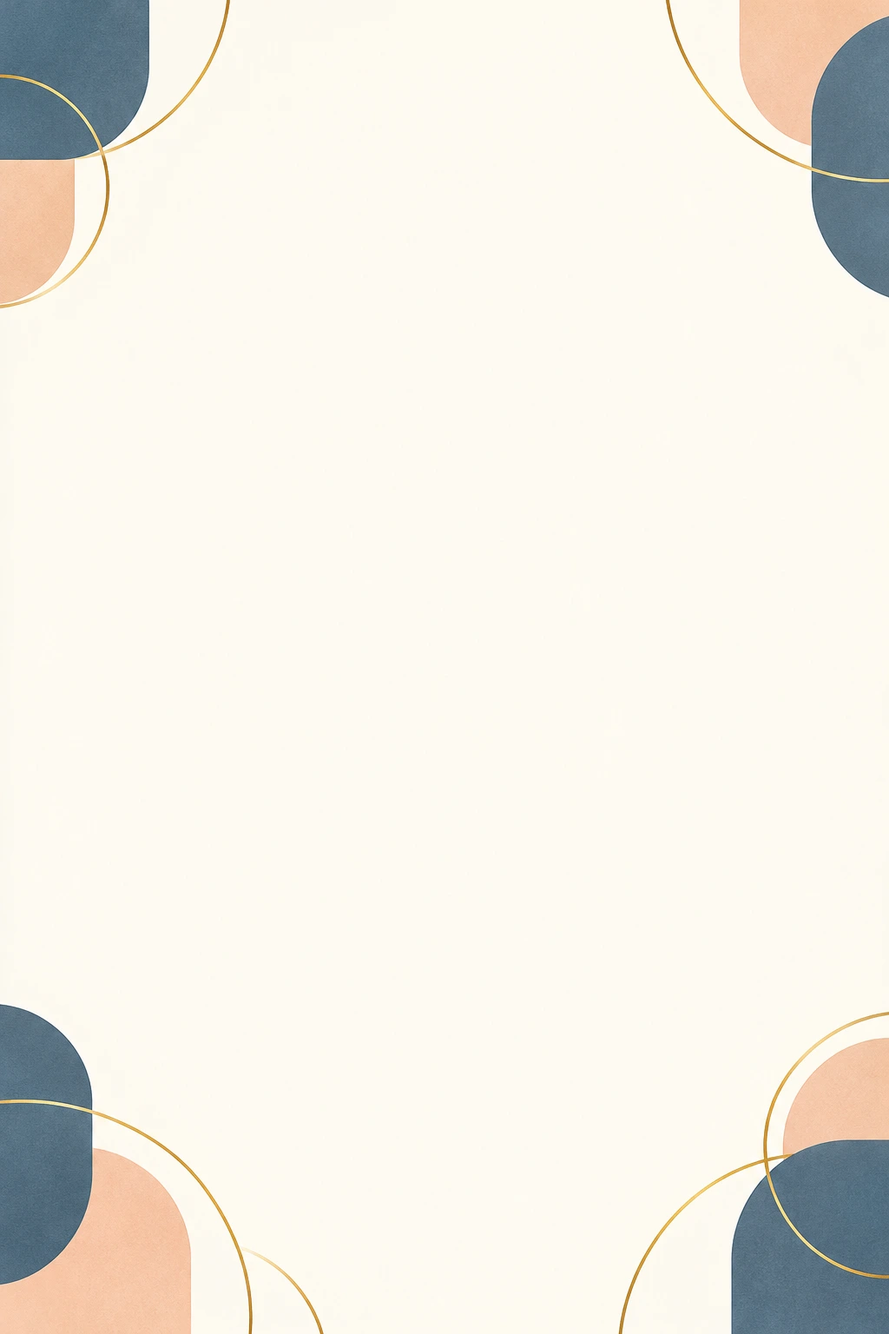
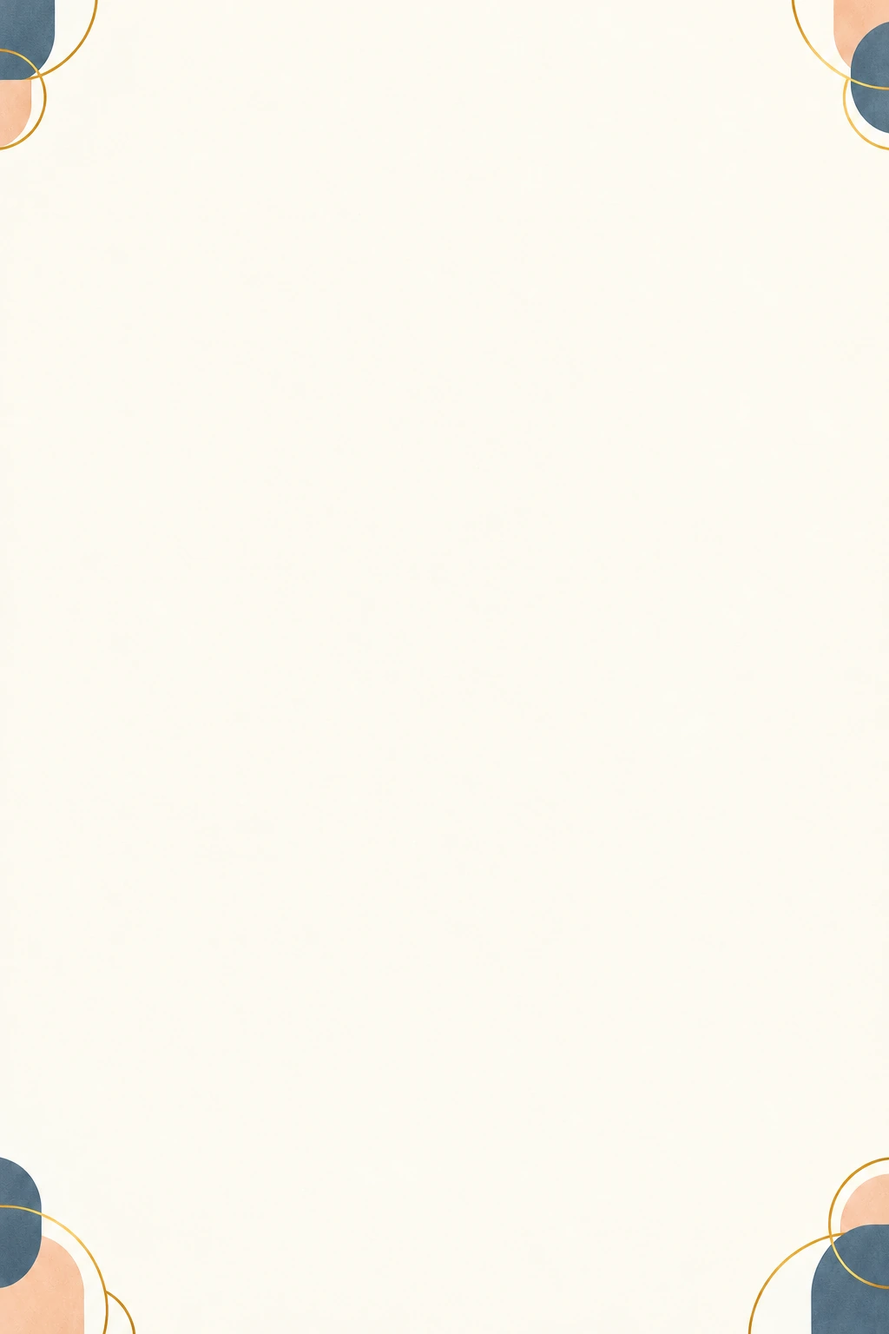
Recompose card artwork, center transparent branding and simplify admin overview

diff --git a/la-suite/admin.css b/la-suite/admin.css
@@ -1,4 +1,4 @@
-.admin-console{background:#f5f3ef;color:#302b25;font-family:Inter,Arial,sans-serif;min-height:100vh}.admin-console-header{background:#fff;border-bottom:1px solid #e5ded4;padding:18px max(20px,calc((100vw - 1160px)/2));display:flex;align-items:center;justify-content:space-between;gap:20px}.admin-console-brand{display:flex;align-items:center;gap:14px;color:inherit;text-decoration:none;font-weight:600}.admin-console-brand img{width:80px;height:44px;object-fit:contain}.admin-console-brand span{padding-left:14px;border-left:1px solid #ddd6ca;font-size:.85rem}.admin-console-main{max-width:1160px;margin:auto;padding:32px 24px 60px}.admin-console-heading,.admin-section-heading{display:flex;align-items:center;justify-content:space-between;gap:16px;margin-bottom:22px}.admin-console h1{font:600 clamp(1.8rem,4vw,2.5rem) Inter,Arial,sans-serif;margin:6px 0}.admin-console h2{font:600 1.25rem Inter,Arial,sans-serif}.admin-console-heading>span{font-size:.85rem;color:#70685d;overflow-wrap:anywhere}.admin-console .admin-stats{display:grid;grid-template-columns:repeat(4,minmax(0,1fr));gap:16px;margin:0 0 24px}.admin-console .admin-stat{background:white;border:1px solid #e5ded4;border-radius:14px;padding:20px}.admin-console .admin-stat strong{display:block;font-size:1.6rem}.admin-console .admin-stat span{font-size:.8rem;color:#70685d}.admin-console-tabs{display:flex;gap:8px;padding:6px;background:#eae6de;border-radius:12px;overflow-x:auto;margin-bottom:24px}.admin-console-tabs button{flex:1;border:0;background:transparent;color:#625b50;padding:13px 18px;border-radius:8px;font:500 .9rem Inter,Arial,sans-serif;white-space:nowrap;cursor:pointer}.admin-console-tabs button[aria-selected=true]{background:white;color:#8b2730;box-shadow:0 1px 4px #00000010}.admin-console-panel{background:white;border:1px solid #e5ded4;border-radius:16px;padding:24px}.admin-console .admin-list{display:grid;gap:12px}.admin-console .admin-card{margin:0;background:#fff;border:1px solid #e5ded4;border-radius:12px;padding:20px}.admin-search{display:grid;gap:8px;max-width:420px;font-size:.85rem;margin:18px 0 22px}.admin-console input,.admin-console select{width:100%;min-width:0;border:1px solid #d9d2c8;border-radius:8px;padding:11px;font:inherit;background:white}.admin-console .admin-dialog{width:min(760px,calc(100% - 24px));max-height:calc(100dvh - 24px);overflow:auto;box-sizing:border-box;padding:28px}.admin-console fieldset{border:1px solid #e5ded4;border-radius:12px;padding:18px;margin:18px 0;min-width:0}.admin-console legend{font-weight:600;font-size:.9rem;padding:0 6px}.admin-console .field{margin:0;min-width:0}.admin-console .field label{font-size:.85rem}.admin-console small,.admin-console .hint{font-size:.8rem;color:#70685d;line-height:1.6}.admin-console .admin-actions{display:flex;gap:10px;align-items:center;flex-wrap:wrap}.admin-console .admin-actions .hint{flex-basis:100%;margin:0}.admin-console [hidden]{display:none!important}
+.admin-console{background:#f5f3ef;color:#302b25;font-family:Inter,Arial,sans-serif;min-height:100vh}.admin-console-header{background:#fff;border-bottom:1px solid #e5ded4;padding:18px max(20px,calc((100vw - 1160px)/2));display:flex;align-items:center;justify-content:space-between;gap:20px}.admin-console-brand{display:flex;align-items:center;gap:14px;color:inherit;text-decoration:none;font-weight:600}.admin-console-brand img{width:80px;height:44px;object-fit:contain}.admin-console-brand span{padding-left:14px;border-left:1px solid #ddd6ca;font-size:.85rem}.admin-console-main{max-width:1160px;margin:auto;padding:32px 24px 60px}.admin-console-heading,.admin-section-heading{display:flex;align-items:center;justify-content:space-between;gap:16px;margin-bottom:22px}.admin-console h1{font:600 clamp(1.8rem,4vw,2.5rem) Inter,Arial,sans-serif;margin:6px 0}.admin-console h2{font:600 1.25rem Inter,Arial,sans-serif}.admin-console-heading>span{font-size:.85rem;color:#70685d;overflow-wrap:anywhere}.admin-console .admin-stats{display:grid;grid-template-columns:repeat(3,minmax(0,1fr));gap:16px;margin:0 0 24px}.admin-console .admin-stat{background:white;border:1px solid #e5ded4;border-radius:14px;padding:20px}.admin-console .admin-stat strong{display:block;font-size:1.6rem}.admin-console .admin-stat span{font-size:.8rem;color:#70685d}.admin-console-tabs{display:flex;gap:8px;padding:6px;background:#eae6de;border-radius:12px;overflow-x:auto;margin-bottom:24px}.admin-console-tabs button{flex:1;border:0;background:transparent;color:#625b50;padding:13px 18px;border-radius:8px;font:500 .9rem Inter,Arial,sans-serif;white-space:nowrap;cursor:pointer}.admin-console-tabs button[aria-selected=true]{background:white;color:#8b2730;box-shadow:0 1px 4px #00000010}.admin-console-panel{background:white;border:1px solid #e5ded4;border-radius:16px;padding:24px}.admin-console .admin-list{display:grid;gap:12px}.admin-console .admin-card{margin:0;background:#fff;border:1px solid #e5ded4;border-radius:12px;padding:20px}.admin-search{display:grid;gap:8px;max-width:420px;font-size:.85rem;margin:18px 0 22px}.admin-console input,.admin-console select{width:100%;min-width:0;border:1px solid #d9d2c8;border-radius:8px;padding:11px;font:inherit;background:white}.admin-console .admin-dialog{width:min(760px,calc(100% - 24px));max-height:calc(100dvh - 24px);overflow:auto;box-sizing:border-box;padding:28px}.admin-console fieldset{border:1px solid #e5ded4;border-radius:12px;padding:18px;margin:18px 0;min-width:0}.admin-console legend{font-weight:600;font-size:.9rem;padding:0 6px}.admin-console .field{margin:0;min-width:0}.admin-console .field label{font-size:.85rem}.admin-console small,.admin-console .hint{font-size:.8rem;color:#70685d;line-height:1.6}.admin-console .admin-actions{display:flex;gap:10px;align-items:center;flex-wrap:wrap}.admin-console .admin-actions .hint{flex-basis:100%;margin:0}.admin-console [hidden]{display:none!important}
 @media(max-width:650px){.admin-console-header{padding:14px 16px}.admin-console-brand img{width:60px}.admin-console-brand span{font-size:.75rem}.admin-console-main{padding:22px 12px 40px}.admin-console-heading{align-items:flex-start;flex-direction:column;gap:4px}.admin-console .admin-stats{grid-template-columns:repeat(2,minmax(0,1fr));gap:10px}.admin-console .admin-stat{padding:16px}.admin-console-tabs button{padding:12px 14px}.admin-console-panel{padding:16px}.admin-console .admin-dialog{padding:20px}.admin-console .admin-actions>.btn{flex:1}.admin-section-heading{align-items:flex-start;flex-wrap:wrap}}.admin-console-header>*{min-width:0}.admin-console-header .btn{flex-shrink:0}.admin-console .admin-dialog{max-width:760px}
 @media(max-width:400px){.admin-console-header{gap:10px}.admin-console-brand{gap:8px}.admin-console-brand img{width:40px}.admin-console-brand span{padding-left:8px;font-size:.7rem}.admin-console-header .btn{font-size:.75rem;padding:9px 12px}.admin-console .admin-dialog{padding:16px}.admin-console fieldset{padding:12px}.admin-console .admin-actions>.btn{min-width:0}}.admin-console-main{max-width:1440px}.admin-table-wrap{max-width:100%;overflow-x:auto;overscroll-behavior-x:contain;border:1px solid #e5ded4;border-radius:12px}.admin-capsules-table{border-collapse:collapse;width:100%;min-width:1190px;font-size:.8rem}.admin-capsules-table th{background:#f4f1eb;text-align:left;padding:14px 12px;white-space:nowrap}.admin-capsules-table td{padding:16px 12px;border-top:1px solid #e5ded4;vertical-align:top}.admin-capsules-table th button{border:0;background:none;font:inherit;font-weight:600;color:inherit;cursor:pointer;padding:0}.admin-capsules-table td:first-child{min-width:150px;max-width:200px}.admin-capsules-table td:nth-child(2){min-width:170px;max-width:220px;overflow-wrap:anywhere}.admin-capsules-table input,.admin-capsules-table select{font-size:.8rem;padding:8px;min-height:40px}.admin-capsules-table input[type=number]{width:78px}.admin-capsules-table select{min-width:104px}.admin-capsules-table input[type=date]{width:142px}.admin-capsules-table small{display:block;margin:6px 0;font-size:.7rem}.admin-row-status{max-width:180px;color:#962d35;font-size:.75rem;white-space:normal}.admin-account-grid{display:grid;grid-template-columns:repeat(2,minmax(0,1fr));gap:20px}.admin-account-grid form{display:grid;gap:16px}.admin-account-grid .btn{justify-self:start}.admin-account-grid .field{display:grid;gap:6px}.admin-sales-totals{display:grid;grid-template-columns:repeat(3,minmax(0,1fr));gap:14px;margin:18px 0 26px}.admin-sales-totals>div{background:#f8f6f1;padding:18px;border-radius:12px}.admin-sales-totals strong{font-size:1.5rem;display:block}.admin-sales-totals span{font-size:.8rem}.admin-sales-bars{display:grid;grid-template-columns:repeat(12,minmax(0,1fr));gap:10px;min-width:570px;height:210px;align-items:end}.admin-sales-month{height:100%;display:flex;flex-direction:column;justify-content:flex-end;gap:7px;position:relative}.admin-sales-group{height:180px;display:flex;gap:3px;align-items:flex-end;border-bottom:1px solid #d7cbbb}.admin-sales-bar{flex:1;min-width:2px;border-radius:3px 3px 0 0;background:#9c8470}.admin-sales-bar[data-plan=audio]{background:#b96955}.admin-sales-bar[data-plan=premium]{background:#8b2730}.admin-sales-month>span{font-size:.68rem;text-align:center;white-space:nowrap;color:#70685d}.admin-sales-legend{display:flex;gap:18px;flex-wrap:wrap;margin:18px 0;font-size:.8rem}.admin-sales-legend i{display:inline-block;width:10px;height:10px;background:#9c8470;margin-right:6px}.admin-sales-legend [data-plan=audio]{background:#b96955}.admin-sales-legend [data-plan=premium]{background:#8b2730}.admin-sales-scroll{max-width:100%;overflow:auto}.admin-sales-data summary{cursor:pointer;font-size:.85rem}.admin-sales-data table{border-collapse:collapse;width:100%;font-size:.8rem;margin:12px 0}.admin-sales-data th,.admin-sales-data td{text-align:left;padding:9px;border-bottom:1px solid #e5ded4}.admin-console input:disabled,.admin-console select:disabled,.admin-console button:disabled{opacity:.6;cursor:default}
 @media(max-width:760px){.admin-account-grid{grid-template-columns:1fr}.admin-sales-totals{gap:8px}.admin-sales-totals>div{padding:12px}.admin-sales-totals strong{font-size:1.15rem}.admin-console-tabs button{padding:12px 10px;font-size:.8rem}}/* Capsule management keeps archives beside the table and account settings separate. */

diff --git a/la-suite/styles.css b/la-suite/styles.css
@@ -2532,7 +2532,7 @@ footer{border-top:1px solid var(--line);padding:28px 0;color:var(--muted);font-s
 }
 
 /* Private administration: compact cards, readable on mobile. */
-.admin-page{max-width:1160px;min-height:65vh;padding-top:36px;padding-bottom:60px}.admin-nav,.admin-actions,.admin-head,.admin-capsule-head,.admin-capsule-bottom,.admin-client,.admin-backup{display:flex;align-items:center;justify-content:space-between;gap:16px}.admin-nav a{color:var(--ink,#292525);font-size:14px}.admin-card{border:1px solid #e7dfd2;border-radius:18px;background:#fffdf9;padding:24px}.admin-head{margin-bottom:24px}.admin-head h1{font-size:40px;margin:6px 0}.admin-stats{display:grid;grid-template-columns:repeat(4,1fr);gap:14px;margin:24px 0}.admin-stat{display:flex;flex-direction:column;gap:6px;padding:20px;background:#fffdf9;border:1px solid #e7dfd2;border-radius:16px}.admin-stat strong{font-size:28px}.admin-stat span{font-size:13px;color:#6d6258}.admin-tabs{display:flex;gap:8px;border-bottom:1px solid #e3d9cb;margin:28px 0 24px}.admin-tabs button{border:0;border-bottom:3px solid transparent;padding:14px 20px;background:none;font:600 15px Inter,sans-serif;color:#75675c;cursor:pointer}.admin-tabs button[aria-selected=true]{color:#a80b0b;border-bottom-color:#a80b0b}.admin-filters{display:flex;gap:16px;margin-bottom:20px}.admin-filters label{display:flex;flex-direction:column;gap:7px;font-size:13px;font-weight:600}.admin-search{flex:1}.admin-filters input,.admin-filters select,.admin-quota input{padding:12px;border:1px solid #d9cfc1;border-radius:10px;background:white;min-width:0;font:14px Inter,sans-serif}.admin-list{display:grid;gap:14px;margin-top:20px}.admin-card h2{font-size:25px;margin:0 0 8px}.admin-card p{font-size:14px;line-height:1.6;margin:8px 0;color:#706457}.admin-badge{border-radius:20px;padding:7px 12px;font-size:12px;font-weight:600;background:#ecefe4;color:#435632;white-space:nowrap}.admin-badge.attention{background:#fff0d7;color:#87520b}.admin-capsule-bottom{margin-top:12px}.admin-capsule-bottom>div{flex:1;max-width:460px}.admin-capsule progress{width:100%;height:7px;accent-color:#9e7e42}.admin-actions{justify-content:flex-start;flex-wrap:wrap}.admin-empty{padding:32px;text-align:center;color:#706457}.admin-dialog{max-width:580px;width:calc(100% - 32px);border:1px solid #e2d5c2;border-radius:20px;padding:30px;background:#fffdf9}.admin-dialog::backdrop{background:#1d171966}.admin-detail{display:grid;grid-template-columns:1fr 1fr;gap:18px;margin:24px 0}.admin-detail dt{font-size:12px;color:#7c6c5b}.admin-detail dd{margin:6px 0;font-weight:600}.admin-quota{margin-top:24px;border-top:1px solid #e7dfd2;padding-top:18px}.admin-quota summary{cursor:pointer}.admin-quota form{display:grid;gap:10px;margin-top:18px}.admin-error{color:#a80b0b!important}.admin-page button:disabled{opacity:.55;cursor:wait}#admin-access{max-width:620px;margin:20px auto}#admin-access h1{font-size:38px}
+.admin-page{max-width:1160px;min-height:65vh;padding-top:36px;padding-bottom:60px}.admin-nav,.admin-actions,.admin-head,.admin-capsule-head,.admin-capsule-bottom,.admin-client,.admin-backup{display:flex;align-items:center;justify-content:space-between;gap:16px}.admin-nav a{color:var(--ink,#292525);font-size:14px}.admin-card{border:1px solid #e7dfd2;border-radius:18px;background:#fffdf9;padding:24px}.admin-head{margin-bottom:24px}.admin-head h1{font-size:40px;margin:6px 0}.admin-stats{display:grid;grid-template-columns:repeat(3,1fr);gap:14px;margin:24px 0}.admin-stat{display:flex;flex-direction:column;gap:6px;padding:20px;background:#fffdf9;border:1px solid #e7dfd2;border-radius:16px}.admin-stat strong{font-size:28px}.admin-stat span{font-size:13px;color:#6d6258}.admin-tabs{display:flex;gap:8px;border-bottom:1px solid #e3d9cb;margin:28px 0 24px}.admin-tabs button{border:0;border-bottom:3px solid transparent;padding:14px 20px;background:none;font:600 15px Inter,sans-serif;color:#75675c;cursor:pointer}.admin-tabs button[aria-selected=true]{color:#a80b0b;border-bottom-color:#a80b0b}.admin-filters{display:flex;gap:16px;margin-bottom:20px}.admin-filters label{display:flex;flex-direction:column;gap:7px;font-size:13px;font-weight:600}.admin-search{flex:1}.admin-filters input,.admin-filters select,.admin-quota input{padding:12px;border:1px solid #d9cfc1;border-radius:10px;background:white;min-width:0;font:14px Inter,sans-serif}.admin-list{display:grid;gap:14px;margin-top:20px}.admin-card h2{font-size:25px;margin:0 0 8px}.admin-card p{font-size:14px;line-height:1.6;margin:8px 0;color:#706457}.admin-badge{border-radius:20px;padding:7px 12px;font-size:12px;font-weight:600;background:#ecefe4;color:#435632;white-space:nowrap}.admin-badge.attention{background:#fff0d7;color:#87520b}.admin-capsule-bottom{margin-top:12px}.admin-capsule-bottom>div{flex:1;max-width:460px}.admin-capsule progress{width:100%;height:7px;accent-color:#9e7e42}.admin-actions{justify-content:flex-start;flex-wrap:wrap}.admin-empty{padding:32px;text-align:center;color:#706457}.admin-dialog{max-width:580px;width:calc(100% - 32px);border:1px solid #e2d5c2;border-radius:20px;padding:30px;background:#fffdf9}.admin-dialog::backdrop{background:#1d171966}.admin-detail{display:grid;grid-template-columns:1fr 1fr;gap:18px;margin:24px 0}.admin-detail dt{font-size:12px;color:#7c6c5b}.admin-detail dd{margin:6px 0;font-weight:600}.admin-quota{margin-top:24px;border-top:1px solid #e7dfd2;padding-top:18px}.admin-quota summary{cursor:pointer}.admin-quota form{display:grid;gap:10px;margin-top:18px}.admin-error{color:#a80b0b!important}.admin-page button:disabled{opacity:.55;cursor:wait}#admin-access{max-width:620px;margin:20px auto}#admin-access h1{font-size:38px}
 @media(max-width:700px){.admin-page{padding-top:24px}.admin-nav{gap:8px}.admin-nav a{font-size:12px}.admin-nav .btn{font-size:12px;padding:10px}.admin-head{align-items:flex-start}.admin-head h1{font-size:29px}.admin-stats{grid-template-columns:1fr 1fr;gap:10px}.admin-stat{padding:16px}.admin-stat strong{font-size:24px}.admin-tabs{gap:0}.admin-tabs button{flex:1;padding:12px 8px;font-size:13px}.admin-filters{flex-direction:column}.admin-card{padding:18px}.admin-capsule-head,.admin-backup,.admin-client{align-items:flex-start;flex-direction:column;gap:8px}.admin-capsule-head h2{font-size:24px}.admin-capsule-head p{overflow-wrap:anywhere}.admin-capsule-bottom{gap:12px}.admin-capsule-bottom .btn{padding:10px 14px}.admin-dialog{padding:24px}.admin-detail{grid-template-columns:1fr}.admin-card .admin-actions .btn{font-size:13px}}
 
 /* Offer: one launch action, optional future plans. */

diff --git a/la-suite/capsule-design.js b/la-suite/capsule-design.js
@@ -9,7 +9,7 @@
  function background(c){return validBackground(Object.hasOwn(c,'_designBackground')?c._designBackground:c.welcome_config?.background);}
  function crops(c){return Object.fromEntries(['cardX','cardY','welcomeX','welcomeY'].map(key=>[key,position(c._designCrop?.[key]??c.welcome_config?.[key])]));}
  function fields(c){return {...(background(c)?{background:background(c)}:{}),...crops(c)};}
- function artwork(style,config={}){return style==='custom'?validBackground(config.background):styles.some(s=>s.id===style)?'assets/themes/backgrounds/'+style+'.webp?v=20261009-shared1':null;}
+ function artwork(style,config={}){return style==='custom'?validBackground(config.background):styles.some(s=>s.id===style)?'assets/themes/backgrounds/'+style+'.webp?v=20261009-border1':null;}
  function mount(c){
   document.body.classList.add('collection-ready','studio-ready');
   const panel=document.querySelector('.qr-designer-panel'),controls=document.querySelector('.qr-designer-controls'),preview=document.querySelector('.qr-designer-preview');
@@ -18,7 +18,7 @@
   let scroll=0;const view=name=>{if(name==='preview')scroll=window.scrollY;panel.dataset.designView=name;const stage=document.querySelector('.activation-panel');if(stage&&matchMedia('(max-width:760px)').matches){if(name==='preview')preview.append(stage);else controls.insertBefore(stage,controls.querySelector('.design-mobile-footer'));}nav.querySelectorAll('button').forEach(b=>b.setAttribute('aria-pressed',String(b.dataset.designView===name)));if(matchMedia('(max-width:760px)').matches)window.scrollTo({top:name==='settings'?scroll:panel.offsetTop,behavior:'instant'});};nav.querySelectorAll('button').forEach(b=>b.onclick=()=>view(b.dataset.designView));view('settings');
   const footer=document.createElement('div');footer.className='design-mobile-footer';footer.innerHTML='<button type="button" class="btn primary">Voir l’aperçu</button>';controls.append(footer);footer.firstChild.onclick=()=>view('preview');
   const back=document.createElement('button');back.type='button';back.className='design-back';back.textContent='← Revenir aux réglages';preview.prepend(back);back.onclick=()=>view('settings');
-  const gallery=document.querySelector('.qr-theme-gallery');gallery.setAttribute('aria-label','11 styles et import de votre design');gallery.innerHTML=styles.map(s=>'<button type="button" class="qr-style-choice" data-qr-style="'+s.id+'" aria-pressed="false"><img class="qr-theme-thumbnail" src="assets/themes/previews/'+s.id+'.webp" width="256" height="256" alt=""><span class="qr-theme-name">'+s.name+'</span></button>').join('')+'<button type="button" id="design-import" class="qr-style-choice" aria-controls="design-file"><img class="qr-theme-thumbnail" src="assets/themes/previews/importer.webp" width="256" height="256" alt=""><span class="qr-theme-name">Importer mon design</span></button>';
+  const gallery=document.querySelector('.qr-theme-gallery');gallery.setAttribute('aria-label','11 styles et import de votre design');gallery.innerHTML=styles.map(s=>'<button type="button" class="qr-style-choice" data-qr-style="'+s.id+'" aria-pressed="false"><img class="qr-theme-thumbnail" src="assets/themes/previews/'+s.id+'.webp?v=20261009-border1" width="256" height="256" alt=""><span class="qr-theme-name">'+s.name+'</span></button>').join('')+'<button type="button" id="design-import" class="qr-style-choice" aria-controls="design-file"><img class="qr-theme-thumbnail" src="assets/themes/previews/importer.webp" width="256" height="256" alt=""><span class="qr-theme-name">Importer mon design</span></button>';
   const custom=document.createElement('div');custom.className='design-custom';custom.innerHTML='<input id="design-file" type="file" accept="image/jpeg,image/png,image/webp" hidden><p id="design-upload-status" role="status" aria-live="polite"></p><div id="design-crop" hidden><p>Position du fond</p><label>Fiche : horizontal<input type="range" data-design-crop="cardX" min="0" max="100"></label><label>Fiche : vertical<input type="range" data-design-crop="cardY" min="0" max="100"></label><label>Accueil : horizontal<input type="range" data-design-crop="welcomeX" min="0" max="100"></label><label>Accueil : vertical<input type="range" data-design-crop="welcomeY" min="0" max="100"></label></div>';gallery.after(custom);
   const palette=document.querySelector('.qr-color-palette');palette.innerHTML=colors.map(([hex,name])=>'<button type="button" data-qr-color="'+hex+'" style="--swatch:'+hex+'" aria-label="'+name+'"><span>'+name+'</span></button>').join('')+'<label class="qr-custom-color" title="Palette personnalisée"><input id="qr-color" type="color" value="'+(/^#[0-9a-f]{6}$/i.test(c.qr_color||'')?c.qr_color:'#8b2730')+'" aria-label="Palette personnalisée"><span>Palette</span></label>';
   const menu=document.querySelector('.qr-font-menu');menu.hidden=false;menu.querySelectorAll('.qr-font-sample').forEach(e=>e.textContent=c.couple_name&&c.couple_name.length<=24?c.couple_name:'Votre événement');

diff --git a/la-suite/app.js b/la-suite/app.js
@@ -924,19 +924,22 @@ function qrInk(color){
  while(luminance()>.10)rgb=rgb.map(x=>Math.floor(x*.9));
  return "#"+rgb.map(x=>x.toString(16).padStart(2,"0")).join("");
 }
-let qrCanvasCache=null;
+let qrModelCache=null;
 function makeQrCanvas(url,o){
  const key=JSON.stringify([url,qrInk(o.color)]);
- if(qrCanvasCache?.key===key)return qrCanvasCache.canvas;
- const holder=document.createElement("div");
- const code=new QRCode(holder,{text:url,width:512,height:512,colorDark:qrInk(o.color),colorLight:"#ffffff",correctLevel:QRCode.CorrectLevel.H});
- const model=code._oQRCode,n=model.getModuleCount(),cell=12,quiet=4;
+ if(qrModelCache?.key!==key){
+  const holder=document.createElement("div");
+  const code=new QRCode(holder,{text:url,width:512,height:512,colorDark:qrInk(o.color),colorLight:"#ffffff",correctLevel:QRCode.CorrectLevel.H});
+  qrModelCache={key,model:code._oQRCode};
+ }
+ // Repaint from the cached matrix: reused canvas bitmaps may be discarded by the browser.
+ const model=qrModelCache.model,n=model.getModuleCount(),cell=12,quiet=4;
  const canvas=document.createElement("canvas");canvas.width=canvas.height=(n+quiet*2)*cell;
  const ctx=canvas.getContext("2d");
  ctx.fillStyle="#ffffff";ctx.fillRect(0,0,canvas.width,canvas.height);
  ctx.fillStyle=qrInk(o.color);
  for(let y=0;y<n;y++)for(let x=0;x<n;x++)if(model.isDark(y,x))ctx.fillRect((x+quiet)*cell,(y+quiet)*cell,cell,cell);
- qrCanvasCache={key,canvas};return canvas;
+ return canvas;
 }
 function drawQrMonogram(ctx,o,cx,cy,size,background){
  const d=size*.18,r=d/2,theme=qrThemes[o.style];
@@ -1197,10 +1200,8 @@ async function buildPrintCardCanvas(c,url){
  const W=1181,H=1772;canvas.width=W;canvas.height=H;
  const config=c.welcome_config||{},artwork=window.SuiteDesign.artwork(o.style,{...config,background:window.SuiteDesign.background(c)});
  if(artwork){const image=await loadCanvasImage(artwork);const scale=Math.max(W/image.naturalWidth,H/image.naturalHeight),iw=image.naturalWidth*scale,ih=image.naturalHeight*scale;ctx.drawImage(image,(W-iw)*window.SuiteDesign.position(config.cardX)/100,(H-ih)*window.SuiteDesign.position(config.cardY)/100,iw,ih);}else{drawQrBackdrop(ctx,o,W,H);drawQrDecor(ctx,o,W,H);}
- const dark=qrThemes[o.style].dark;let paper=dark?qrThemes[o.style].background:'#fffdf8';
- if(artwork&&o.style!=='custom'&&!dark){const pixel=ctx.getImageData(W/2|0,H/2|0,1,1).data;paper='rgb('+pixel[0]+','+pixel[1]+','+pixel[2]+')';}
- // Opaque safe center blends into the paper; artwork remains outside the text bounds.
- ctx.save();ctx.shadowColor=paper;ctx.shadowBlur=110;ctx.fillStyle=paper;ctx.fillRect(145,160,W-290,1430);ctx.restore();
+ // The artwork itself reserves the text area; no colored panel covers the design.
+ const dark=qrThemes[o.style].dark;
  ctx.fillStyle=dark?'#fffaf1':'#201c1a';
  const ff=qrFontFamily(o.font),titleSize=['romantic','signature'].includes(o.font)?150:o.font==='contemporary'?120:o.font==='refined'?122:140;
  drawPrintTextBox(ctx,o.title,{x:180,y:190,width:W-360,height:195,center:true},{size:titleSize,family:'"'+ff+'", serif',weight:qrFontWeight(o.font),maxLines:3});
@@ -1225,15 +1226,17 @@ async function buildPrintCardCanvas(c,url){
 
  try{
   const logo=await loadCanvasImage("assets/la-suite-logo.webp?v=20260927-hq");
-  const maxW=210,maxH=94,scale=Math.min(maxW/logo.naturalWidth,maxH/logo.naturalHeight);
+  const maxW=260,maxH=104,scale=Math.min(maxW/logo.naturalWidth,maxH/logo.naturalHeight);
   const lw=Math.round(logo.naturalWidth*scale),lh=Math.round(logo.naturalHeight*scale);
-  ctx.fillStyle="#fffdf8";ctx.beginPath();ctx.roundRect(W-150-lw-16,H-181,lw+32,lh+32,10);ctx.fill();
-  ctx.drawImage(logo,W-150-lw,H-165,lw,lh)
+  // Keep the original alpha, with a light monochrome mark on dark designs.
+  const mark=document.createElement('canvas');mark.width=lw;mark.height=lh;
+  const markCtx=mark.getContext('2d');markCtx.drawImage(logo,0,0,lw,lh);
+  if(dark){markCtx.globalCompositeOperation='source-in';markCtx.fillStyle='#fffaf1';markCtx.fillRect(0,0,lw,lh);}
+  ctx.drawImage(mark,(W-lw)/2,H-150,lw,lh)
  }catch(e){
-  ctx.fillStyle="#fffdf8";ctx.fillRect(W-350,H-153,216,66);
-  ctx.textAlign="right";ctx.fillStyle="#211d1d";
+  ctx.textAlign="center";ctx.fillStyle=dark?'#fffaf1':'#211d1d';
   ctx.font='700 34px "Cormorant Garamond", Georgia, serif';
-  ctx.fillText("La Suite",W-150,H-105)
+  ctx.fillText("La Suite",W/2,H-105)
  }
  return canvas
 }

diff --git a/la-suite/admin.html b/la-suite/admin.html
@@ -1,6 +1,6 @@
 <!doctype html>
 <html lang="fr"><head><meta charset="utf-8"><meta name="viewport" content="width=device-width,initial-scale=1"><meta name="robots" content="noindex,nofollow"><title>Administration — La Suite</title>
-<link href="https://fonts.googleapis.com/css2?family=Inter:wght@400;500;600;700&display=swap" rel="stylesheet"><link rel="stylesheet" href="https://cdnjs.cloudflare.com/ajax/libs/font-awesome/6.5.0/css/all.min.css"><link rel="stylesheet" href="styles.css?v=20261009-cleanup1"><link rel="stylesheet" href="admin.css?v=20261009-cleanup1"></head>
+<link href="https://fonts.googleapis.com/css2?family=Inter:wght@400;500;600;700&display=swap" rel="stylesheet"><link rel="stylesheet" href="https://cdnjs.cloudflare.com/ajax/libs/font-awesome/6.5.0/css/all.min.css"><link rel="stylesheet" href="styles.css?v=20261009-border1"><link rel="stylesheet" href="admin.css?v=20261009-border1"></head>
 <body class="admin-console"><header class="admin-console-header"><a class="admin-console-brand" href="admin.html"><img src="assets/la-suite-logo.webp" alt="La Suite"><span>Administration</span></a><button id="admin-logout" class="btn secondary" type="button" hidden>Déconnexion</button></header><main class="admin-console-main"><section id="admin-access" class="admin-card"><div class="eyebrow">Administration privée</div><h1>Administration</h1><p id="access-message" role="status">Vérification de votre accès…</p><div id="admin-auth" class="admin-actions" hidden><a class="btn primary" href="auth.html?next=admin">Me connecter</a><a id="admin-signup" class="btn secondary" href="auth.html?mode=signup&amp;next=admin" hidden>Créer mon compte administrateur</a></div></section>
 <div id="admin-content" hidden>
  <div class="admin-console-heading"><div><div class="eyebrow">Gestion du service</div><h1>Administration</h1></div></div>
@@ -30,4 +30,4 @@
 <dialog id="confirm-dialog" class="admin-dialog"><h2 id="confirm-title"></h2><p id="confirm-text"></p><div class="admin-actions"><button id="confirm-yes" class="btn primary" type="button">Confirmer</button><button id="confirm-no" class="btn secondary" type="button">Annuler</button></div></dialog>
 
 
-</main><script src="https://cdn.jsdelivr.net/npm/@supabase/supabase-js@2.58.0"></script><script src="supabase-config.js"></script><script src="backup-archive.js?v=20261008-admin6"></script><script src="admin.js?v=20261009-cleanup1"></script></body></html>
+</main><script src="https://cdn.jsdelivr.net/npm/@supabase/supabase-js@2.58.0"></script><script src="supabase-config.js"></script><script src="backup-archive.js?v=20261008-admin6"></script><script src="admin.js?v=20261009-border1"></script></body></html>

diff --git a/la-suite/admin.js b/la-suite/admin.js
@@ -24,7 +24,7 @@ async function initSuiteAdmin(){
  function attention(c){if(c.noCapsule)return false;return ['full','suspended','missing_date'].includes(c.usage.state)||c.usage.used_bytes>=c.usage.quota_bytes*.8;}
  function email(id){return data.clients.find(x=>x.id===id)?.email||'Compte indisponible';}
  function render(){
-  $('admin-stats').innerHTML=[['Capsules',data.capsules.length],['Clients',data.clients.filter(c=>!c.is_admin).length],['Capsules à surveiller',data.capsules.filter(attention).length],['Mo utilisés',(data.capsules.reduce((n,c)=>n+Number(c.usage.used_bytes),0)/1e6).toLocaleString('fr-FR',{maximumFractionDigits:1})]].map(([name,value])=>`<div class="admin-stat"><strong>${esc(value)}</strong><span>${name}</span>${name==='Capsules à surveiller'?'<small>Stockage ≥ 80 %, dépôts en pause ou date manquante.</small><button type="button" class="admin-text-button" data-attention="true">Voir les capsules</button>':''}</div>`).join('');
+  $('admin-stats').innerHTML=[['Capsules',data.capsules.length],['Clients',data.clients.filter(c=>!c.is_admin).length],['Mo utilisés',(data.capsules.reduce((n,c)=>n+Number(c.usage.used_bytes),0)/1e6).toLocaleString('fr-FR',{maximumFractionDigits:1})]].map(([name,value])=>`<div class="admin-stat"><strong>${esc(value)}</strong><span>${name}</span></div>`).join('');
   renderCapsules();renderSales();renderBackups();
 
  }
@@ -101,7 +101,6 @@ async function initSuiteAdmin(){
  const handleAdminClick=async e=>{const b=e.target.closest('button');if(!b||b.disabled||busy)return;
   if(b.id==='import-backup'){$('archive-input').value='';$('archive-input').click();}
   if(b.dataset.createForAccount)openAccountCreation(b.dataset.createForAccount);
-  if(b.dataset.attention){stateFilter='attention';renderCapsules();selectView('capsules');}
   if(b.dataset.sort){if(sortKey===b.dataset.sort)sortDirection*=-1;else{sortKey=b.dataset.sort;sortDirection=1;}renderCapsules();}
   if(b.dataset.capsuleDownload)try{await downloadCapsule(b.dataset.capsuleDownload)}catch(error){if(error.name!=='AbortError')status(error.message,true)}
   if(b.dataset.capsuleDelete){const c=data.capsules.find(x=>x.id===b.dataset.capsuleDelete);if(c&&await confirmAction('Supprimer cette capsule ?',c.name+' : les souvenirs et la capsule seront supprimés. Le compte client et les achats restent conservés. Les archives déjà téléchargées restent restaurables dans Paramètres.'))await run(async()=>{await api('delete_capsule',{id:c.id,expected_name:c.name});rowDrafts.delete(c.id);status('');});}

diff --git a/la-suite/dashboard.html b/la-suite/dashboard.html
@@ -6,8 +6,8 @@
 <link rel="preconnect" href="https://fonts.googleapis.com"><link rel="preconnect" href="https://fonts.gstatic.com" crossorigin>
 <link href="https://fonts.googleapis.com/css2?family=Cormorant+Garamond:wght@500;600;700&family=DM+Serif+Display&family=Great+Vibes&family=Inter:wght@400;500;600;700&family=Libre+Baskerville:wght@400;700&family=Montserrat:wght@500;600;700&family=Parisienne&family=Playfair+Display:wght@500;600;700&display=swap" rel="stylesheet">
 <link rel="stylesheet" href="https://cdnjs.cloudflare.com/ajax/libs/font-awesome/6.5.0/css/all.min.css" crossorigin="anonymous">
-<link rel="stylesheet" href="styles.css?v=20261009-refine4">
-<link rel="stylesheet" href="organizer-layout.css?v=20261009-refine4">
+<link rel="stylesheet" href="styles.css?v=20261009-border1">
+<link rel="stylesheet" href="organizer-layout.css?v=20261009-border1">
 </head>
 <body class="suite-shell-page">
 <header class="forge-style-header">
@@ -45,7 +45,7 @@
 <script src="https://cdn.jsdelivr.net/npm/qrcodejs@1.0.0/qrcode.min.js"></script>
 <script src="https://cdn.jsdelivr.net/npm/@supabase/supabase-js@2.58.0"></script>
 <script src="supabase-config.js"></script>
-<script src="souvenir-zip.js?v=20261003-offer2"></script><script src="workspace.js?v=20261009-cleanup1"></script><script src="card-pdf.js?v=20261008-rules1"></script><script src="capsule-design.js?v=20261009-refine4"></script><script src="welcome-ui.js?v=20261009-refine4"></script><script src="organizer-layout.js?v=20261009-refine4"></script><script src="app.js?v=20261009-refine4"></script>
+<script src="souvenir-zip.js?v=20261003-offer2"></script><script src="workspace.js?v=20261009-cleanup1"></script><script src="card-pdf.js?v=20261008-rules1"></script><script src="capsule-design.js?v=20261009-border1"></script><script src="welcome-ui.js?v=20261009-border1"></script><script src="organizer-layout.js?v=20261009-border1"></script><script src="app.js?v=20261009-border1"></script>
 </body></html>
 
 

diff --git a/la-suite/capsule.html b/la-suite/capsule.html
@@ -6,7 +6,7 @@
 <link rel="preconnect" href="https://fonts.googleapis.com"><link rel="preconnect" href="https://fonts.gstatic.com" crossorigin>
 <link href="https://fonts.googleapis.com/css2?family=Cormorant+Garamond:wght@500;600;700&family=DM+Serif+Display&family=Great+Vibes&family=Inter:wght@400;500;600;700&family=Libre+Baskerville:wght@400;700&family=Montserrat:wght@500;600;700&family=Parisienne&family=Playfair+Display:wght@500;600;700&display=swap" rel="stylesheet">
 <link rel="stylesheet" href="https://cdnjs.cloudflare.com/ajax/libs/font-awesome/6.5.0/css/all.min.css" crossorigin="anonymous">
-<link rel="stylesheet" href="styles.css?v=20261009-refine4">
+<link rel="stylesheet" href="styles.css?v=20261009-border1">
 </head>
 <body class="suite-shell-page guest-compact">
 <header class="forge-style-header">
@@ -144,8 +144,8 @@
 <script src="https://cdn.jsdelivr.net/npm/@supabase/supabase-js@2.58.0"></script>
 <script src="supabase-config.js"></script>
 <script src="https://cdn.jsdelivr.net/npm/tus-js-client@4.3.1/dist/tus.min.js"></script>
-<script src="capsule-design.js?v=20261009-refine4"></script><script src="welcome-ui.js?v=20261009-refine4"></script>
-<script src="app.js?v=20261009-refine4"></script>
+<script src="capsule-design.js?v=20261009-border1"></script><script src="welcome-ui.js?v=20261009-border1"></script>
+<script src="app.js?v=20261009-border1"></script>
 </body></html>
 
 

diff --git a/la-suite/create.html b/la-suite/create.html
@@ -7,7 +7,7 @@
 <link rel="preconnect" href="https://fonts.googleapis.com"><link rel="preconnect" href="https://fonts.gstatic.com" crossorigin>
 <link href="https://fonts.googleapis.com/css2?family=Cormorant+Garamond:wght@500;600;700&family=Inter:wght@400;500;600;700&display=swap" rel="stylesheet">
 <link rel="stylesheet" href="https://cdnjs.cloudflare.com/ajax/libs/font-awesome/6.5.0/css/all.min.css" crossorigin="anonymous">
-<link rel="stylesheet" href="styles.css?v=20261009-refine4">
+<link rel="stylesheet" href="styles.css?v=20261009-border1">
 </head>
 <body class="create-page suite-shell-page">
 <header class="forge-style-header">
@@ -83,7 +83,7 @@
 <script src="suite-shell.js?v=20261007-review15"></script>
 <script src="https://cdn.jsdelivr.net/npm/@supabase/supabase-js@2.58.0"></script>
 <script src="supabase-config.js?v=20260927-1"></script>
-<script src="app.js?v=20261009-refine4"></script>
+<script src="app.js?v=20261009-border1"></script>
 </body>
 </html>
 

diff --git a/la-suite/auth.html b/la-suite/auth.html
@@ -6,7 +6,7 @@
 <link rel="preconnect" href="https://fonts.googleapis.com"><link rel="preconnect" href="https://fonts.gstatic.com" crossorigin>
 <link href="https://fonts.googleapis.com/css2?family=Cormorant+Garamond:wght@500;600;700&family=Inter:wght@400;600;700&display=swap" rel="stylesheet">
 <link rel="stylesheet" href="https://cdnjs.cloudflare.com/ajax/libs/font-awesome/6.5.0/css/all.min.css" crossorigin="anonymous">
-<link rel="stylesheet" href="styles.css?v=20261009-refine4">
+<link rel="stylesheet" href="styles.css?v=20261009-border1">
 </head>
 <body class="suite-shell-page">
 <header class="forge-style-header">
@@ -64,7 +64,7 @@
 <script src="suite-shell.js?v=20261007-review15"></script>
 <script src="https://cdn.jsdelivr.net/npm/@supabase/supabase-js@2.58.0"></script>
 <script src="supabase-config.js"></script>
-<script src="app.js?v=20261009-refine4"></script>
+<script src="app.js?v=20261009-border1"></script>
 </body></html>
 
 
